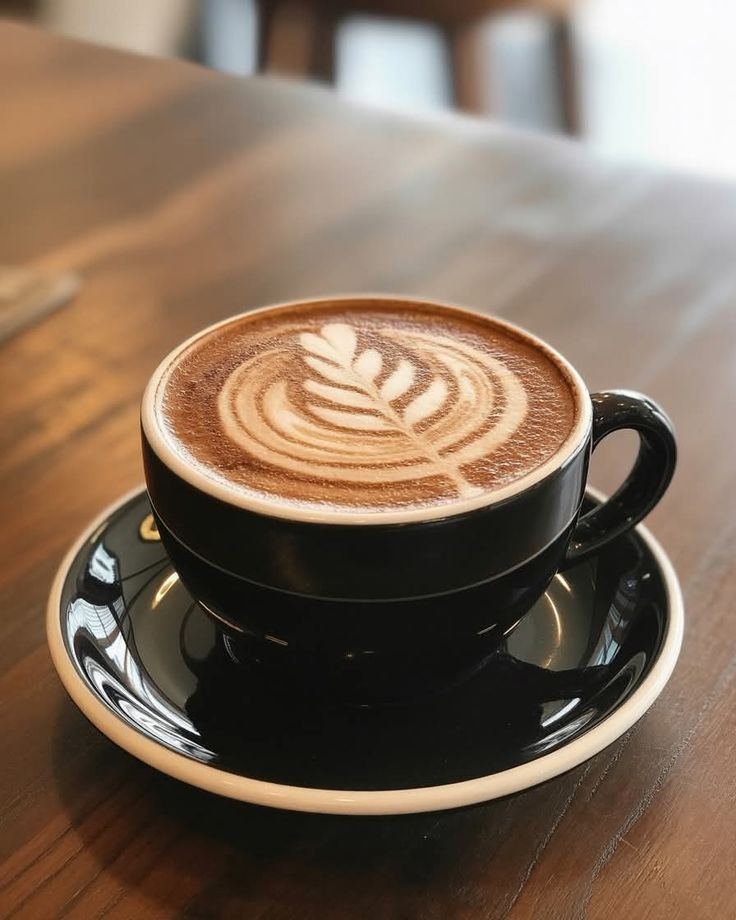
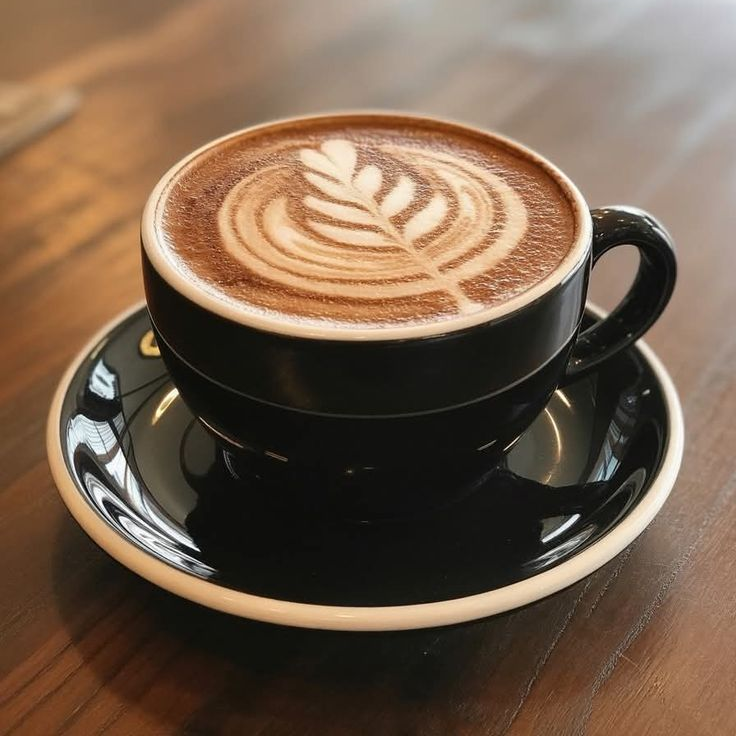
style: Finalizando tela de carrinho

diff --git a/wwwroot/css/carrinho.css b/wwwroot/css/carrinho.css
@@ -2,39 +2,325 @@
 }
 
 main{
-    padding: 8% 40px;
+    padding: 8% 60px;
     display: flex;
-    gap: 4rem;
+    gap: 2rem;
+    width: 100%;
 }
 
-.sacola-produtos{
+.sacola-produtos {
     display: flex;
     flex-direction: column;
+    width: 100%;
+    gap: 1rem;
+    height: fit-content;
 }
 
 .minha-sacola {
     display: flex;
-    background-color: var(--roxo);
-    width: 100%;
-    height: 100%;
     align-items: center;
     gap: 1rem;
-    border-radius: 8px;
+    background-color: var(--roxo);
+    border-radius: 15px;
+    min-height: 110px;
+    padding: 6px 0;
+    flex-shrink: 0;
 }
 
-.minha-sacola h1{
+.minha-sacola h2{
     color: var(--branco);
     margin: 10px;
+    font-size: 2.5rem;
     font-weight: 700;
 }
 
 .minha-sacola img{
-    width: 40px;
-    height: 50px;
-    margin-left: 5%;
+    width: 45px;
+    height: 60px;
+    margin-left: 40px;
     cursor: pointer;
 }
 
-.produto-carrinho{
+.card-externo {
+    display: flex;
+    flex-direction: column;
+    width: 100%;
+    background-color: var(--branco-escuro);
+    border-radius:20px;
+}
 
+.produto-carrinho {
+    background-color: var(--azul);
+    color: var(--branco);
+    display: flex;
+    justify-content: normal;
+    border-radius: 10px;
+    height: 10vh;
+    align-items: center;
+    margin: 15px 30px;
+}
+
+.produto-carrinho h4{
+    margin: 20px;
+    font-weight: 600;
+    font-size: 1.8rem;
+}
+
+.produto-carrinho h4:nth-child(1){
+    width: 52%;
+    padding: 15px;
+
+}
+
+.produto-carrinho h4:nth-child(2){
+    width: 19%;
+    margin-right: 0%;
+}
+
+.produto-carrinho h4:nth-child(3){
+    width: 0%;
+    margin-right: 0%;
+}
+
+.item-produto {
+    display: flex;
+    margin: 30px 30px;
+    align-items: center;
+    background-color: var(--branco);
+    border-radius: 20px;
+    box-shadow: 4px 4px 0px var(--azul);
+    height: 45%;
+    justify-content: space-between;
+}
+
+
+.prod-img{
+    display: flex;
+    width: 12%;
+    height: 100%;
+    border-radius: 20px;
+}
+
+#nome-prod{
+    display: flex;
+    font-size: 1.8rem;
+    font-weight: bolder;
+    margin-right: 155px;
+    
+}
+
+#preco {
+    display: flex;
+    background-color: color-mix(in srgb, var(--cinza-claro) 20%, transparent);
+    width: 120px;
+    height: 58px;
+    text-align: center;
+    border-radius: 5px;
+    justify-content: center;
+    align-items: center;
+    font-weight: 500;
+    font-size: 1.7rem;
+}
+
+
+.seletor-quantidade {
+    background-color: color-mix(in srgb, var(--cinza-claro) 20%, transparent);
+    border-radius: 5px;
+    width: 12%;
+    height: 35%;
+    display: flex;
+    align-items: center;
+    justify-content: center;
+    font-weight: 400;
+    display: flex;
+
+}
+
+.seletor-quantidade span{
+    margin-bottom: 1px;
+    font-size: 2.3rem;
+}
+
+.seletor-quantidade button{
+    background: none;
+    border: none;
+    padding: 0 20px;
+    font-size: 1rem;
+    cursor: pointer;
+    outline: none; 
+    display: flex;
+    height: 25px;
+    justify-content: center;
+}
+
+.btn-lixo {
+    background: none;
+    border: none;
+    background-color: var(--branco);
+    cursor: pointer;
+    outline: none;
+    margin-right: 40px;
+    display: flex;
+    width: 60px;
+}
+
+.btn-lixo img{
+    display: flex;
+    width: 100%;
+}
+
+.resumo-compra {
+    display: flex;
+    flex-direction: column;
+    width: 40%;
+    gap: 1rem;
+    background-color: var(--branco-escuro);
+    border-radius: 12px;
+    justify-content: center;
+    align-items: center;
+    box-shadow: 4px 4px 0px var(--roxo);
+}
+
+.header-resumo{
+    text-align: center;
+    margin-top: 5%;
+    display: flex;
+    flex-direction: column;
+    width: 100%;
+    align-items: center;
+    height: fit-content;
+}
+
+.header-resumo h2{
+    font-weight: 600;
+    font-size: 2.2rem;
+}
+
+.header-resumo h5 {
+    font-weight: 600;
+    color: color-mix(in srgb, var(--cinza-claro) 80%, transparent);
+    font-size: 1.4rem;
+}
+
+.buttons-radio {
+    display: flex;
+    align-items: center;
+    margin-top: 10px;
+    justify-content: center;
+    gap: 8rem;
+    font-weight: 700;
+    width: 100%;
+    font-size: 1.8rem;
+    color: color-mix(in srgb, var(--cinza-escuro) 83%, transparent);
+}
+
+.btn-tipo {
+    display: flex;
+    align-items: center;
+    justify-content: space-between;
+    gap: 0.4rem;
+    
+}
+
+.btn-tipo input[type="radio"]{
+    appearance: none;
+    -webkit-appearance: none;
+    width: 23px;
+    height: 23px;
+    border: 2px solid var(--azul);
+    border-radius: 50%;
+    cursor: pointer;
+    position: relative;
+    margin: 0;
+    flex-shrink: 0;
+}
+
+.btn-tipo input[type="radio"]:checked {
+    background-color: var(--azul);
+    box-shadow: inset 0 0 0 0.4px var(--branco);
+}
+
+.body-resumo{
+    display: flex;
+    flex-direction: column;
+    width: 100%;
+}
+
+.inputs label{
+    display: flex;
+    flex-direction: column;
+    padding: 15px 30px;
+    font-weight: 600;
+    font-size: 1.5rem;
+}
+
+.input-form {
+    display: flex;
+    height: 55px;
+    border-radius: 5px;
+    border: 1px solid #9a9a9a;
+    padding: 10px;
+    font-size: 1.3rem;
+}
+
+hr {
+    width: 90%;
+    margin: 0 auto;
+    margin-top: 20px;
+}
+
+.total {
+    display: flex;
+    flex-direction: column;
+    margin-top: 20px;
+    justify-content: center;
+}
+
+.txt-total {
+    display: flex;
+    padding: 8px 30px;
+    justify-content: space-between;
+    align-items: center;
+    text-align: center;
+    font-size: 1.4rem;
+    font-weight: 600;
+    color: color-mix(in srgb, var(--cinza-escuro) 70%, transparent);
+}
+
+.txt-total h4{
+    display: flex;
+    font-size: 1.7rem;
+    font-weight: 600;
+    height: fit-content;
+    color: color-mix(in srgb, var(--cinza-escuro) 83%, transparent);
+}
+
+.txt-total:nth-child(3) h4{
+    font-size: 2.2rem;
+    display: flex;
+}
+
+.txt-total:nth-child(3) span{
+    font-size: 2.2rem;
+    display: flex;
+    color: var(--laranja);
+
+}
+
+#realizar-pedido {
+    display: flex;
+    align-items: center;
+    justify-content: center;
+    margin: 0 auto;
+    width: 80%;
+    height: 65px;
+    margin-bottom: 30px;
+    margin-top: 30px;
+    font-size: 2rem;
+    background-color: var(--azul);
+    color: var(--branco);
+    font-weight: 600;
+    border-radius: 10px;
+    border: none;
+    cursor: pointer;
 }
